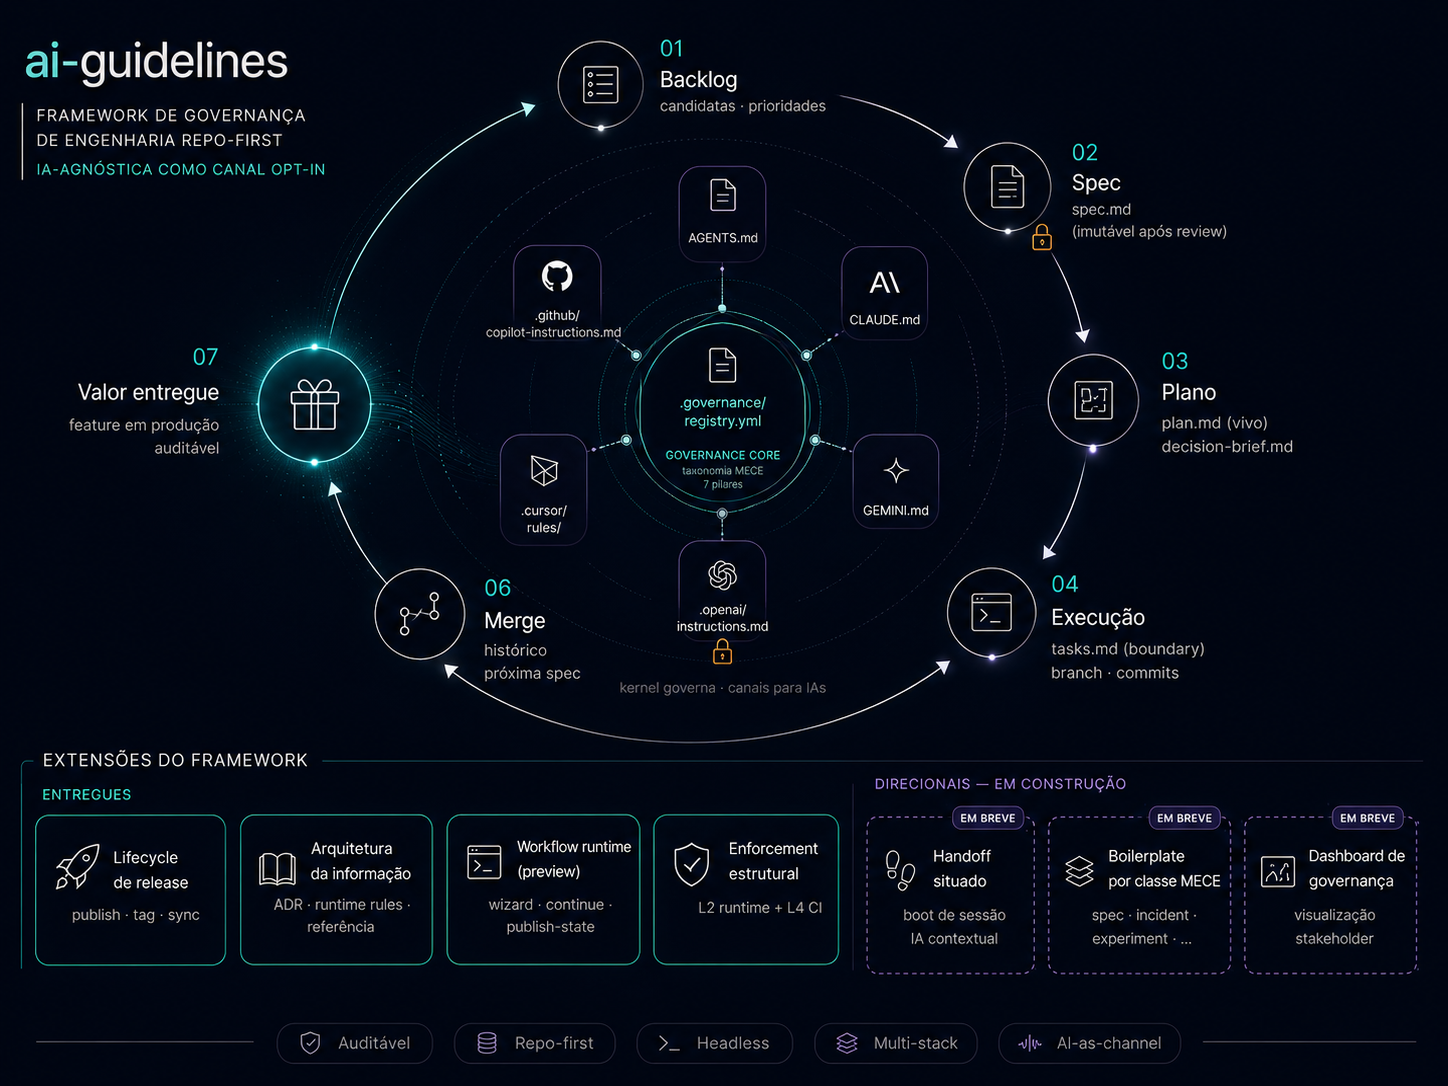
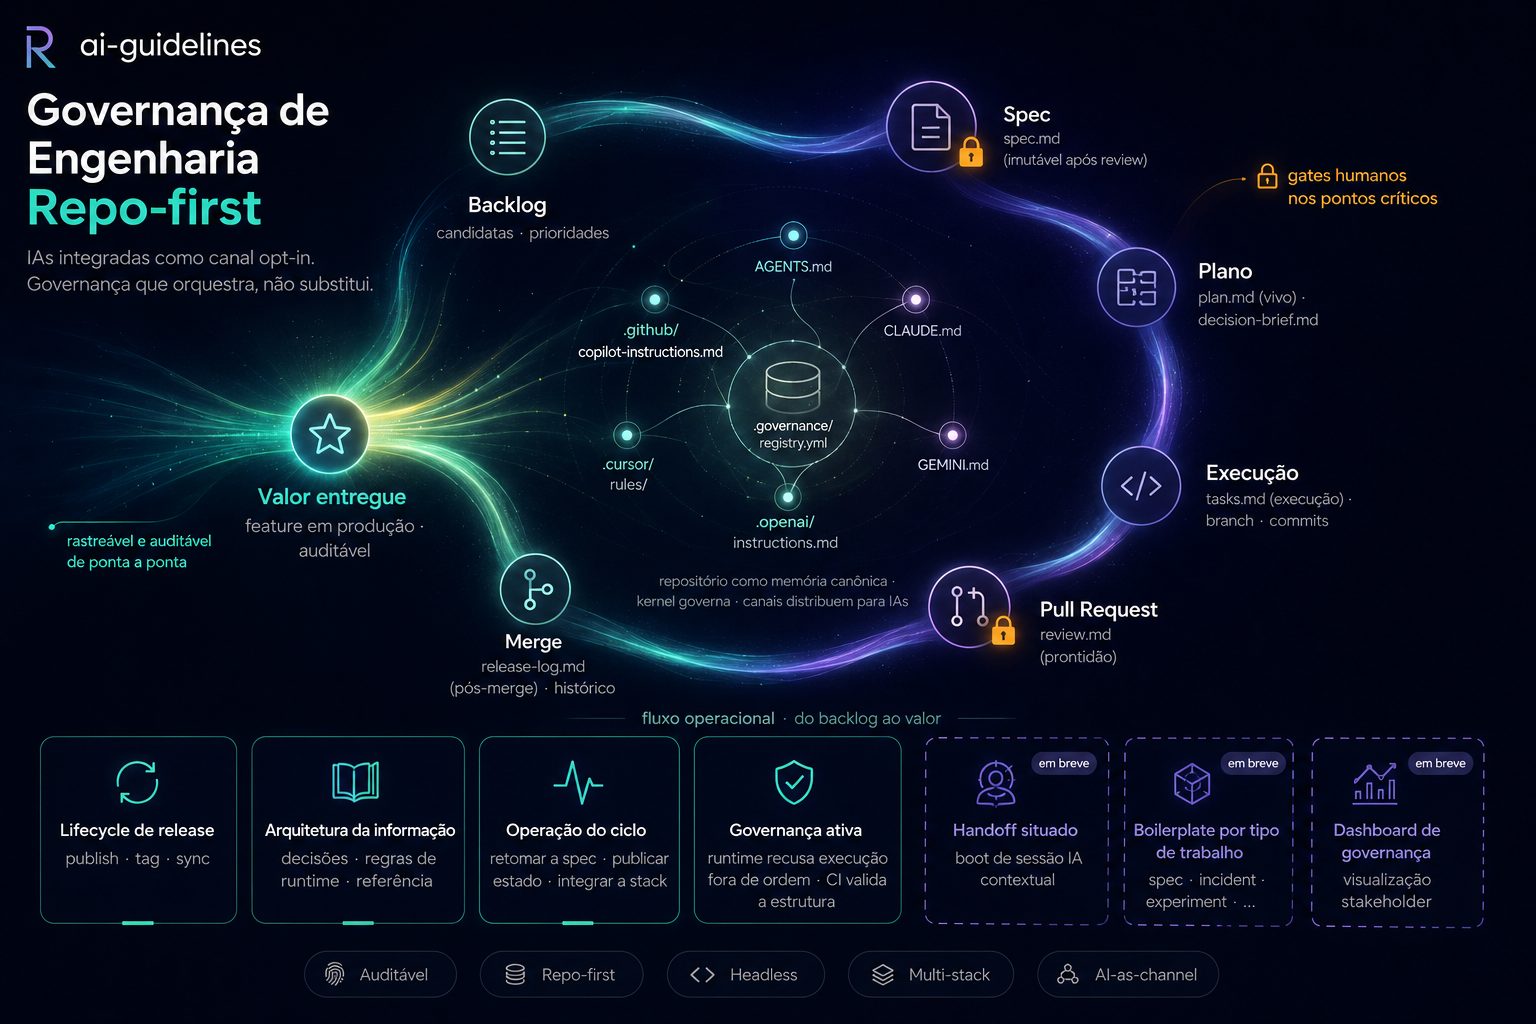
docs(public-facing): README + CHANGELOG — operação do ciclo, 1.1.0, 4 imagens
Vocabulário público: 'operação do ciclo' (era 'workflow runtime'), 'governança ativa' (era 'enforcement'). Versão 1.1.0 direto (sem -preview; publica em latest). README ganha as 4 imagens inline: capa (topo), antes/depois ('Por que existe'), comandos ('Comandos essenciais'), sessão ('Operação do ciclo').

diff --git a/CHANGELOG.md b/CHANGELOG.md
@@ -4,13 +4,13 @@ Todas as mudanças notáveis neste framework seguem [Semantic Versioning](https:
 
 ---
 
-## [Unreleased] — `1.1.0-preview.0` (workflow runtime preview)
+## [Unreleased] — `1.1.0`
 
-> ⚠ **Preview — a UX pode evoluir.** Esta versão introduz o **workflow runtime humano-IA** (Spec 0023) e o **lifecycle metodológico** com gates explícitos (ADR 0020). Tudo aqui é experimental — comportamentos podem mudar antes do 1.1.0 estável. Não usar como base de runtime de produção sem leitura completa de [`.governance/specs/0023-workflow-runtime/`](.governance/specs/0023-workflow-runtime/).
+> **Novidade da 1.1.0.** Esta versão introduz a **operação do ciclo humano-IA** pela CLI (Spec 0023) e o **lifecycle metodológico** com gates explícitos (ADR 0020). As capacidades são **aditivas** (sem quebra de compatibilidade); a UX ainda pode evoluir em releases minor — feedback é bem-vindo. Contexto completo em [`.governance/specs/0023-workflow-runtime/`](.governance/specs/0023-workflow-runtime/).
 
 ### Adicionado
 
-- **Workflow runtime CLI** (`ai-guidelines workflow` + `ai-guidelines continue`). REPL contextual sobre a spec ativa: briefing operacional (stage, gate, hipóteses extraídas de `research.md`, próxima ação), menu de ações estruturadas, classificação de texto livre em **contexto da spec pronto para colar** na sua sessão de IA externa. **Não embute LLM** — AI-as-Channel preservado (ADR 0018).
+- **Operação do ciclo via CLI** (`ai-guidelines workflow` + `ai-guidelines continue`). REPL contextual sobre a spec ativa: briefing operacional (stage, gate, hipóteses extraídas de `research.md`, próxima ação), menu de ações estruturadas, classificação de texto livre em **contexto da spec pronto para colar** na sua sessão de IA externa. **Não embute LLM** — AI-as-Channel preservado (ADR 0018).
 - **Índice operacional público mínimo** `.governance/runtime/active-specs.yml` (PR3-runtime-state-index, Bloco G do decision-brief). Lista as specs ativas com schema fechado: `id`, `slug`, `branch`, `stage`, `status`, `spec_path`, `updated_at` (obrigatórios); `title`, `base_branch`, `source_state_path`, `updated_by`, `last_sync_commit` (opcionais). Campos normativos (`next[]`, `[DEC-*]`, rationale, checklist, debts, texto longo) são **proibidos** — rejeitados pelo parser com mensagem citando `[DEC-0023-G01]`. `stage` é projeção direta de `state.yml.stage` (mesmo enum); `status ∈ {active, blocked, paused, completed}` é dimensão independente declarada manualmente.
 - **`ai-guidelines workflow`** agora lista specs ativas do índice público no boot (lookup-only, sem ordenação/freshness/prioridade) e marca a spec corrente com `*` (match tri-form `id | slug | id-slug`). Quando branch não casa nenhuma spec, o índice é exibido como hint cross-spec.
 - **`ai-guidelines continue [<slug|id>]`**. Sem argumento, mantém comportamento legado (detecção via branch). Com argumento, resolve a spec via índice público (match exato em `id | slug | id-slug`); orienta `git checkout` por texto quando o `spec_path` não está disponível localmente — **sem auto-checkout**.
@@ -27,10 +27,10 @@ Todas as mudanças notáveis neste framework seguem [Semantic Versioning](https:
 - **CORE-16: sync de base ≠ merge atômico ponta-a-ponta.** Distinção cravada como regra global do framework (compilada no `<AI_GUIDELINES>` de todo `AGENTS.md`). Sync de branch com sua base é operação rotineira e segura; merge atômico é rito único no fechamento da spec. Label `MERGEABLE` do GitHub NÃO é convite para mergear na `main` — PRs vinculados a spec não mergeiam isoladamente (cf. ADR 0020).
 - **Wizard operacional mínimo** (PR5, [DEC-0023-B06]). `ai-guidelines workflow` (sem args) abre menu interativo com 6 opções fixas declarativas: continuar spec atual, continuar outra spec por slug/id, publicar estado, listar specs ativas, diagnosticar drift, gerar prompt visual. Cada opção mapeia 1:1 para comando existente — wizard é shell visual sobre runtime, não engine de fluxo. Anti-patterns vetados explicitamente: auto-detecção de "próxima ação", NLP-lite, ranking, autocomplete fuzzy de slug.
 - **Input humano via `@inquirer/prompts`** padronizado (PR5). Porta DDD abstrata `Prompts` em `src/app/ports/`; implementação default `InquirerPrompts` em `src/infrastructure/io/`. Tests injetam `FakePrompts`. Padrão estende ao wizard de `init`/`adopt` (que já usava inquirer) e ao prompt Y/n de install de deps. Convenção operacional registrada em `NEXT.md` da Spec 0023.
-- **`NodeClipboard` real** (PR5, [DEC-0023-B01]). Detecta `pbcopy` (macOS), `wl-copy` (Wayland Linux) ou `xclip -selection clipboard` (X11 Linux). Fail-graceful: retorna `false` sem throw quando indisponível. `detached:true` + `unref()` para não bloquear o event loop esperando daemons do clipboard. Substitui o `NoopClipboard` que existia no preview anterior.
+- **`NodeClipboard` real** (PR5, [DEC-0023-B01]). Detecta `pbcopy` (macOS), `wl-copy` (Wayland Linux) ou `xclip -selection clipboard` (X11 Linux). Fail-graceful: retorna `false` sem throw quando indisponível. `detached:true` + `unref()` para não bloquear o event loop esperando daemons do clipboard. Substitui o `NoopClipboard` que existia antes.
 - **Visual prompts engine** (PR5, 1.H.12). Diretório `.governance/visual-prompts/` com templates parametrizáveis invocados pela opção 6 do wizard. 2 templates genéricos versionados: `architecture-end-to-end.prompt.md` (briefing dirigido a IA conversacional para investigar e desenhar arquitetura do repo atual) e `value-delivered.prompt.md` (comparativo antes/depois de PR ou spec específica). Coleta determinística best-effort de contexto local (`gh pr view`, `git log`, leitura de artifacts da spec) injetada via `{{localContext}}` quando o input é PR/spec reconhecido. Clipboard automático elimina o passo "selecionar manualmente entre delimitadores + Ctrl+C". Cf. ADR 0018 (sem LLM no runtime; IA conversacional é externa).
 - **Prompts editoriais do README** (PR5, 1.H.13). Diretório `docs/editorial/` com 4 prompts específicos do framework para imagens institucionais: `readme-cover.prompt.md` (capa principal, 4:3, refresca `docs/assets/ai-guidelines-flow.png`) e 3 variantes de capa DX secundária — `readme-dx-flow.prompt.md` (16:9, fluxo de sessão), `readme-dx-capability.prompt.md` (1:1, superfície honesta), `readme-dx-before-after.prompt.md` (16:9, contraste de organização do contexto). Gênero distinto dos templates em `.governance/visual-prompts/`: prompts diretos para gerador de imagem (Midjourney/DALL-E), não briefings para IA conversacional; não invocáveis via wizard. Honram ADR 0018 (kernel é `.governance/`, não AGENTS.md) e ADR 0022 em Proposta (handoff renderizado como direcional / em construção, não como capacidade entregue).
-- **Imagens institucionais refreshed** (PR5, 1.H.13). `docs/assets/ai-guidelines-flow.png` regenerada (capa hero v3 — kernel correto `.governance/registry.yml`, honestidade preview vs. direcional via badges "EM BREVE"). Nova `docs/assets/ai-guidelines-dx-flow.png` adicionada como capa DX secundária (referenciada inline na seção "Workflow Runtime (preview)" do README) — fluxo de sessão em 4 momentos (wizard → execução → estado publicado → enforcement L2), com handoff direcional visualmente diferenciado. Samples das 2 variantes DX não-escolhidas preservados em `docs/editorial/sample-*.png` como referência editorial para posts/slides futuros.
+- **Imagens institucionais refreshed** (PR5, 1.H.13). `docs/assets/ai-guidelines-flow.png` regenerada (capa hero v3 — kernel correto `.governance/registry.yml`, honestidade entregue vs. direcional via badges "EM BREVE"). Nova `docs/assets/ai-guidelines-dx-flow.png` adicionada como capa DX secundária (referenciada inline na seção "Operação do ciclo" do README) — fluxo de sessão em 4 momentos (wizard → execução → estado publicado → enforcement L2), com handoff direcional visualmente diferenciado. Samples das 2 variantes DX não-escolhidas preservados em `docs/editorial/sample-*.png` como referência editorial para posts/slides futuros.
 - **`AssembleBriefing` warning para extraction vazia** (PR5, [DEC-0023-B02]). Quando spec/research não casam convenção do template canônico, briefing inclui linha narrativa `(convenção do template não detectada; veja .specify/templates/ para a forma canônica)` em vez de retornar briefing thin silencioso.
 - **Integration test `workflow-dispatch`** (PR5, 1.H.3). Exercita o cabling completo do CLI até o runtime compilado (`parseArgs → engine → dispatchWorkflow → dist/cli/workflow.js → runContinue`) via subprocess real. 2 cenários: happy path (exit 0 + briefing) e bloqueio L2 (exit 1 + mensagem narrativa de dupla violação).
 - **ADR 0022 (Proposta)** — Handoff situado em estado precede distribuição pré-carregada de regras. Reposiciona `AGENTS.md`/`.cursorrules`/`CLAUDE.md`/`.github/copilot-instructions.md` como stubs orientativos de invocação; um comando handoff (ainda **não** materializado) geraria contexto situado a partir dos artefatos vivos. Princípio: `bootstrap de sessão IA é handoff situado em estado, não distribuição pré-carregada de regras`. Materialização vinculada à candidata `handoff-as-first-class` no backlog `Now`.
@@ -45,12 +45,12 @@ Todas as mudanças notáveis neste framework seguem [Semantic Versioning](https:
 - **Gate determinístico de Integration readiness** (Blocos L+M, [DEC-0023-M01]). `CheckIntegrationReadiness` lê os gates `R*` do `review.md` e bloqueia — fail-safe, sem IA — as ops transacionais do wizard: 🔗 (Integration PR) exige `R1`–`R7` `[x]`; 🔀 (merge-stack) exige também `R8` (merge authorization do owner). Contraparte de `CheckExecutionAuthorized` (PR4) para comandos com side-effect.
 - **`ai-guidelines review [<pr>]`** standalone (Bloco N, tier 1 inspeção, **read-only**). Reúne e estrutura os review comments inline de um PR (agrupa sem-resposta × respondidos por `arquivo:linha`) e imprime um bloco copiável para colar na IA externa. Detecta o PR pela branch atual ou aceita número explícito. **Boundary ADR 0018:** o comando só busca + estrutura; análise, classificação e resposta aos comentários são trabalho do agente (canal), não do runtime. Porta `StackOps.listReviewComments` + `GhCli` via `gh api .../pulls/N/comments --paginate`; use case `TriageReview`. Nasceu da dor de triar reviews no dogfooding do PR #25. Cf. `[DEC-0023-N01]`.
 
-### Limitações conhecidas (preview)
+### Limitações conhecidas
 
 - **`updated_at` no índice é registro factual, NÃO sinal operacional.** Não representa progresso, prioridade, atividade recente, freshness ou saúde — sorting/stale/heartbeat são deliberadamente fora de escopo (cf. jsdoc de `ActiveSpecEntry`). Qualquer enriquecimento semântico futuro exige DEC própria.
 - **Sync do índice é manual.** `publish-state` é a única forma de atualizar `.governance/runtime/active-specs.yml`; sem hooks pre-commit, sem CI auto-sync, sem PRs incrementais de state. Reabrir após primeiro dogfood real (cf. `[DEC-0023-G03]`).
 - **`HEAD` precisa de commit válido.** `git init -b <branch>` sozinho deixa HEAD unborn; `currentBranch()` retorna `null` até o primeiro commit. Sem fallback heurístico — humano vê erro orientativo.
-- **Bootstrap de spec ausente.** Não há comando para criar `state.yml` automaticamente em spec existente nem para criar spec nova com a estrutura mínima. Bootstrap entra em release futura (critério de exit do preview).
+- **Bootstrap de spec ausente.** Não há comando para criar `state.yml` automaticamente em spec existente nem para criar spec nova com a estrutura mínima. Bootstrap entra em release futura.
 - **Convenção de branch obrigatória.** Detecção de spec ativa exige branch nomeada `feat|fix|docs|chore|refactor/spec-NNNN-{slug}`. Branches fora dessa convenção devolvem "spec não detectada". Sem fallback heurístico.
 - **Extraction de `research.md` é frágil.** `AssembleBriefing` casa cabeçalhos específicos do template canônico (`### H1 —`, `### 8.1 ...`). Specs fora dessa convenção recebem briefing thin com warning explícito.
 - **Drift detection deliberadamente diferido.** `governance-pr-check` valida apenas linkagem estrutural — não detecta divergência semântica entre `tasks.md` declarado e arquivos modificados. Reabrir como spec própria quando padrões de divergência se acumularem.

diff --git a/README.md b/README.md
@@ -32,10 +32,14 @@ O `ai-guidelines` cobre os três eixos no mesmo framework:
 - **Taxonomia MECE de 7 pilares de trabalho** — `spec`, `experiment`, `spike`, `incident`, `proposal`, `patch`, `fix`. Tudo que entra no fluxo cabe em exatamente um.
 - **`.governance/` como SSOT** — `registry.yml` estruturado + Markdown derivado + reservas para intake, handoff, telemetria à medida que o framework evolui. Repo é a memória.
 - **Living Documentation** — testes com IDs `[BR-CLI-*]` são a fonte única de verdade das regras de negócio; documentação derivada protegida por drift guard fatal na CI.
-- **Integração AI-agnóstica de primeira classe** — um runtime governado distribui regras para 7+ provider entrypoints sincronizados (`CLAUDE.md`, `GEMINI.md`, `.openai/instructions.md`, `.cursor/rules/`, etc.).
+- **Integração AI-agnóstica de primeira classe** — um sistema governado distribui regras para 7+ provider entrypoints sincronizados (`CLAUDE.md`, `GEMINI.md`, `.openai/instructions.md`, `.cursor/rules/`, etc.).
 - **Política de update auditável** (`managed-block` + `mirror`) que delimita o que a CLI gerencia e o que é do consumidor — sem sobrescrita silenciosa.
 
 Você escreve a regra de governança uma vez. Você abre uma spec uma vez. O framework propaga até o merge — com IA opcional, mas de primeira classe.
+
+<p align="center">
+  <img src="https://raw.githubusercontent.com/rosanarezende/ai-guidelines/main/docs/assets/ai-guidelines-before-after.png" alt="ai-guidelines — antes e depois: do contexto reconstruído a cada sessão ao contexto canônico versionado no repositório" width="880">
+</p>
 
 ## Quick start
 
@@ -62,33 +66,37 @@ Requer **Node ≥ 22**. Para fixar versão em CI: `npx ai-guidelines@<versão> .
 
 ## Comandos essenciais
 
-| Comando                       | Quando usar                                                            |
-| :---------------------------- | :--------------------------------------------------------------------- |
-| `npx ai-guidelines init`      | Projeto novo, baseline governance-first via wizard interativo          |
-| `npx ai-guidelines adopt`     | Repositório existente, adoção conservadora (preserva código legado)    |
-| `npx ai-guidelines providers` | Adicionar ou remover AI provider entrypoints específicos               |
-| `npx ai-guidelines update`    | Re-aplicar baseline após upgrade da CLI (headless, idempotente)        |
-| `npx ai-guidelines workflow`  | Wizard operacional do runtime (preview)                                |
-| `npx ai-guidelines continue`  | Briefing da spec ativa + enforcement de pré-condições (preview)        |
-| `npx ai-guidelines review`    | Reúne os comentários de review de um PR para colar na sua IA (preview) |
+<p align="center">
+  <img src="https://raw.githubusercontent.com/rosanarezende/ai-guidelines/main/docs/assets/ai-guidelines-capability.png" alt="ai-guidelines — superfície de comandos: cinco comandos primários e capacidades opt-in" width="520">
+</p>
+
+| Comando                       | Quando usar                                                         |
+| :---------------------------- | :------------------------------------------------------------------ |
+| `npx ai-guidelines init`      | Projeto novo, baseline governance-first via wizard interativo       |
+| `npx ai-guidelines adopt`     | Repositório existente, adoção conservadora (preserva código legado) |
+| `npx ai-guidelines providers` | Adicionar ou remover AI provider entrypoints específicos            |
+| `npx ai-guidelines update`    | Re-aplicar baseline após upgrade da CLI (headless, idempotente)     |
+| `npx ai-guidelines workflow`  | Menu para operar o ciclo da spec ativa                              |
+| `npx ai-guidelines continue`  | Briefing da spec ativa + governança ativa nas pré-condições         |
+| `npx ai-guidelines review`    | Reúne os comentários de review de um PR para colar na sua IA        |
 
 Todo comando aceita `--dry-run` para preview e `--help` para detalhes. Sem argumentos, a CLI inicia o wizard.
 
-## Workflow Runtime (preview)
+## Operação do ciclo
 
-> **Preview — a UX pode evoluir.** Capacidades em validação empírica; a versão estável virá após uso real em mais projetos.
+> **Novo na 1.1.0.** As capacidades são aditivas (sem quebra de compatibilidade); a UX ainda pode evoluir em releases minor — feedback é bem-vindo.
 
 <p align="center">
-  <img src="https://raw.githubusercontent.com/rosanarezende/ai-guidelines/main/docs/assets/ai-guidelines-dx-flow.png" alt="ai-guidelines workflow runtime — sessão típica em 4 momentos: wizard, execução, estado publicado, enforcement" width="880">
+  <img src="https://raw.githubusercontent.com/rosanarezende/ai-guidelines/main/docs/assets/ai-guidelines-dx-flow.png" alt="ai-guidelines · operação do ciclo — sessão típica em 4 momentos: menu, execução, estado publicado, governança ativa" width="880">
 </p>
 
-A partir do `1.1.0-preview`, a CLI ganha um **runtime operacional** que opera sobre o ciclo de governança sem substituí-lo. Três comandos no dia a dia:
+A partir da `1.1.0`, a CLI ganha um conjunto de comandos para **operar o ciclo de governança** sem substituí-lo. Três comandos no dia a dia:
 
 - **`npx ai-guidelines workflow`** — wizard com opções declarativas para navegar specs ativas, retomar trabalho, publicar estado, diagnosticar drift e conduzir as operações de integração da stack (abrir Integration PR, merge atômico). Cada opção mapeia 1:1 para um comando — sem ranking, sem auto-detecção de "próxima ação".
-- **`npx ai-guidelines continue [<id|slug>]`** — briefing da spec ativa (ou da spec que você indicar) com enforcement de pré-condições: recusa narrativamente quando a spec ainda não está pronta para execução.
+- **`npx ai-guidelines continue [<id|slug>]`** — briefing da spec ativa (ou da spec que você indicar) com governança ativa nas pré-condições: recusa narrativamente quando a spec ainda não está pronta para execução.
 - **`npx ai-guidelines workflow publish-state --status=<active|blocked|paused|completed>`** — projeta o estado interno da spec no índice público, para que qualquer máquina descubra o que está em curso sem prompt.
 
-**Contexto pronto para colar na IA externa.** O runtime não embute LLM: ele lê o estado da spec e monta um bloco de contexto estruturado que você **cola na sua IA** (Claude, Cursor, Codex…). A conversa acontece na IA; a CLI só prepara o contexto e aplica os gates determinísticos.
+**Contexto pronto para colar na IA externa.** A CLI não embute LLM: ela lê o estado da spec e monta um bloco de contexto estruturado que você **cola na sua IA** (Claude, Cursor, Codex…). A conversa acontece na IA; a CLI só prepara o contexto e aplica os gates determinísticos.
 
 **Três boundaries por spec** organizam o ciclo:
 
@@ -96,7 +104,7 @@ A partir do `1.1.0-preview`, a CLI ganha um **runtime operacional** que opera so
 - `review.md` — prontidão de integração (gates que liberam abrir o PR de integração e o merge);
 - `release-log.md` — registro pós-merge (release/ajustes públicos, quando houver).
 
-O runtime lê o `review.md` e **bloqueia, de forma determinística**, a abertura do Integration PR e o merge da stack enquanto os gates não fecharem — sempre com confirmação humana. No seu repositório o estado fica versionado: `.governance/registry.yml` é a SSOT estruturada do projeto e `.governance/runtime/active-specs.yml` é o índice derivado de specs ativas (schema fechado, descoberta cross-machine sem dashboard externo). Para repositórios com fluxo de stacked PRs, `npx ai-guidelines release-prep` prepara a release com um plano explícito antes de qualquer efeito colateral (`--dry-run` audita sem aplicar).
+A CLI lê o `review.md` e **bloqueia, de forma determinística**, a abertura do Integration PR e o merge da stack enquanto os gates não fecharem — sempre com confirmação humana. No seu repositório o estado fica versionado: `.governance/registry.yml` é a SSOT estruturada do projeto e `.governance/runtime/active-specs.yml` é o índice derivado de specs ativas (schema fechado, descoberta cross-machine sem dashboard externo). Para repositórios com fluxo de stacked PRs, `npx ai-guidelines release-prep` prepara a release com um plano explícito antes de qualquer efeito colateral (`--dry-run` audita sem aplicar).
 
 ## Como funciona (em um minuto)
 
